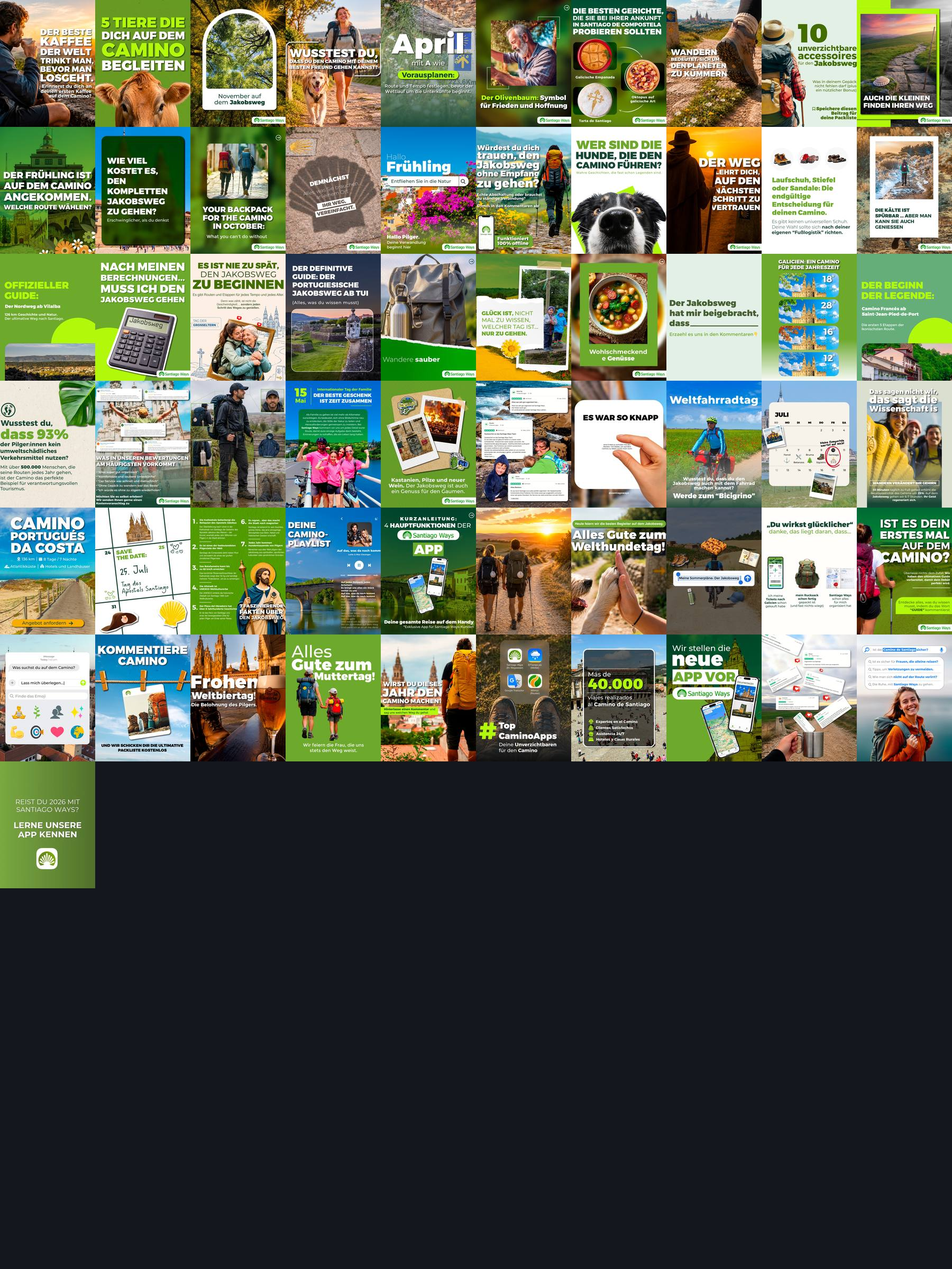
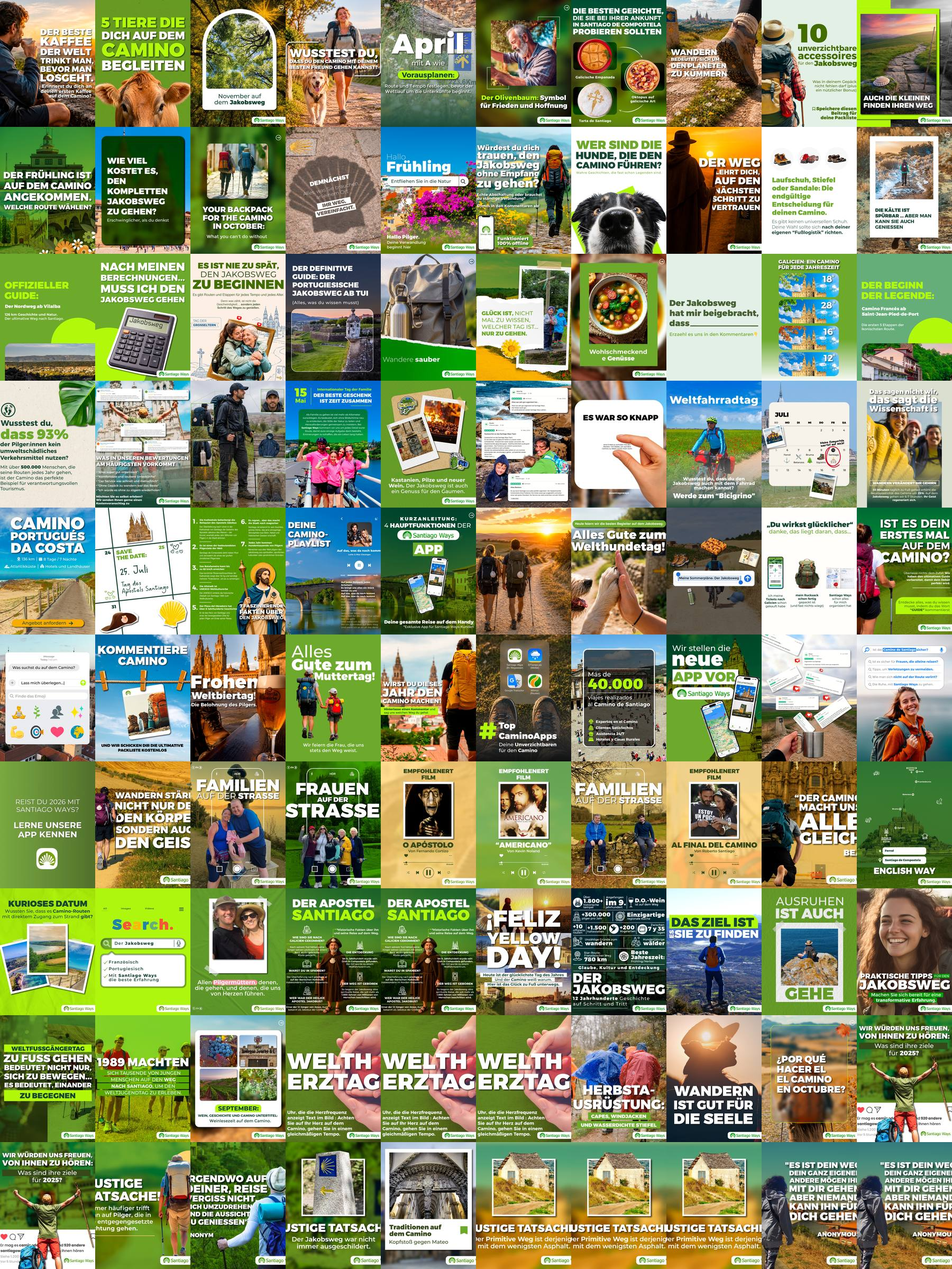
Instagram: pestaña Errores con la revisión completa de ES, EN y DE
Claude-Session: https://claude.ai/code/session_01AwRPb56eQXEY32EMvKEK8N

diff --git a/salas/index.html b/salas/index.html
@@ -3911,13 +3911,15 @@ document.addEventListener("click",e=>{const b=e.target.closest("[data-igcv]");if
 const IG_GRAV={alta:"#ff6b3d",media:"#f5d76e",baja:"#8fb3ff"};
 function pintarIgErr(){const el=document.getElementById("c-instagram_errores");if(!el||st.dentro!=="instagram")return;const D=st.igErr;
   if(!D){el.innerHTML=`<div class="mcab"><div><h2>Errores</h2></div></div><div class="vacio">Jonas está revisando textos y creatividades.</div>`;return}
-  const V=st.igEV||(st.igEV={cuenta:"todas",tipo:"todos"}),all=D.items||[];
-  const L=all.filter(x=>(V.cuenta==="todas"||x.cuenta===V.cuenta)&&(V.tipo==="todos"||x.tipo===V.tipo));
+  const V=st.igEV||(st.igEV={cuenta:"todas",tipo:"todos",gravedad:"todas",donde:"todos"}),all=D.items||[];
+  const L=all.filter(x=>(V.cuenta==="todas"||x.cuenta===V.cuenta)&&(V.tipo==="todos"||x.tipo===V.tipo)&&(V.gravedad==="todas"||x.gravedad===V.gravedad)&&(V.donde==="todos"||x.donde===V.donde));
   const sel=(k,n,vs,def)=>`<label>${n} <select data-igef="${k}"><option value="${def}">${def==="todas"?"Todas":"Todos"}</option>${vs.map(v=>`<option${V[k]===v?" selected":""}>${esc(v)}</option>`).join("")}</select></label>`;
   el.innerHTML=`<div class="mcab"><div><h2>Errores en las publicaciones</h2><div class="fuente-mc" style="margin-top:6px">${esc(D.fuente||"")}</div></div><div class="meta">${D.fecha?`revisado ${esc(hace(D.fecha))}`:""}</div></div>
    <p class="ma-alc">${esc(D.resumen||"")}</p>
    <div class="as-res">${(D.kpis||[]).map(k=>`<div><b>${esc(k[1])}</b><span>${esc(k[0])}</span></div>`).join("")}</div>
-   <div class="ma-ctl">${sel("cuenta","Cuenta",[...new Set(all.map(x=>x.cuenta))].sort(),"todas")}${sel("tipo","Tipo",[...new Set(all.map(x=>x.tipo))].sort(),"todos")}</div>
+   ${(D.patrones||[]).length?`<div class="seccion-t">Lo que más se repite</div><ol class="ma-sug">${D.patrones.map(x=>`<li>${esc(x)}</li>`).join("")}</ol>`:""}
+   <div class="seccion-t">Errores uno a uno (${L.length})</div>
+   <div class="ma-ctl">${sel("cuenta","Cuenta",[...new Set(all.map(x=>x.cuenta))].sort(),"todas")}${sel("tipo","Tipo",[...new Set(all.map(x=>x.tipo))].sort(),"todos")}${sel("gravedad","Gravedad",["alta","media","baja"],"todas")}${sel("donde","Dónde",["Creatividad","Texto del post"],"todos")}</div>
    <div class="ig-errs">${L.map(x=>`<div class="ig-err" style="--g:${IG_GRAV[x.gravedad]||"#8fb3ff"}"><a class="yr-img rs-q3 rs-instagram" href="${esc(x.url)}" target="_blank" rel="noopener">${igSpr(D,x)}</a>
      <div class="ig-ed"><div class="ig-et"><span class="ig-g">${esc(x.gravedad)}</span><b>${esc(x.tipo)}</b><small>${esc(x.cuenta)} · ${esc(x.fecha)} · ${esc(x.donde)}</small></div>
      <p class="ig-mal"><span>Pone</span>${esc(x.mal)}</p><p class="ig-bien"><span>Debería poner</span>${esc(x.bien)}</p>${x.nota?`<p class="ig-nota">${esc(x.nota)}</p>`:""}
